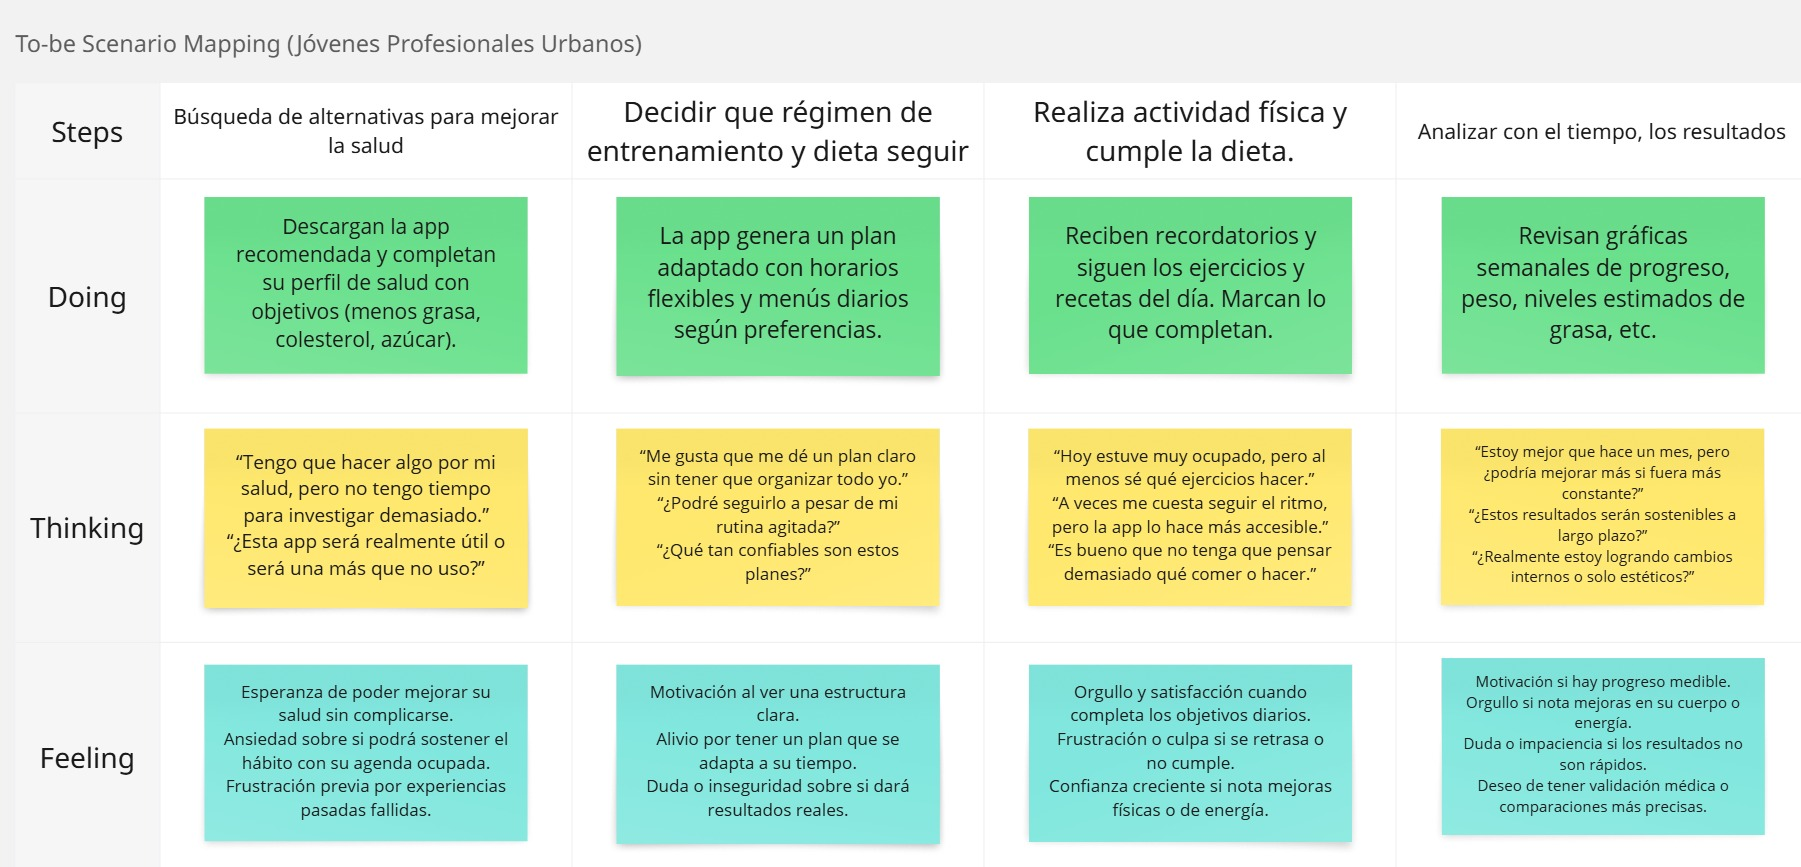
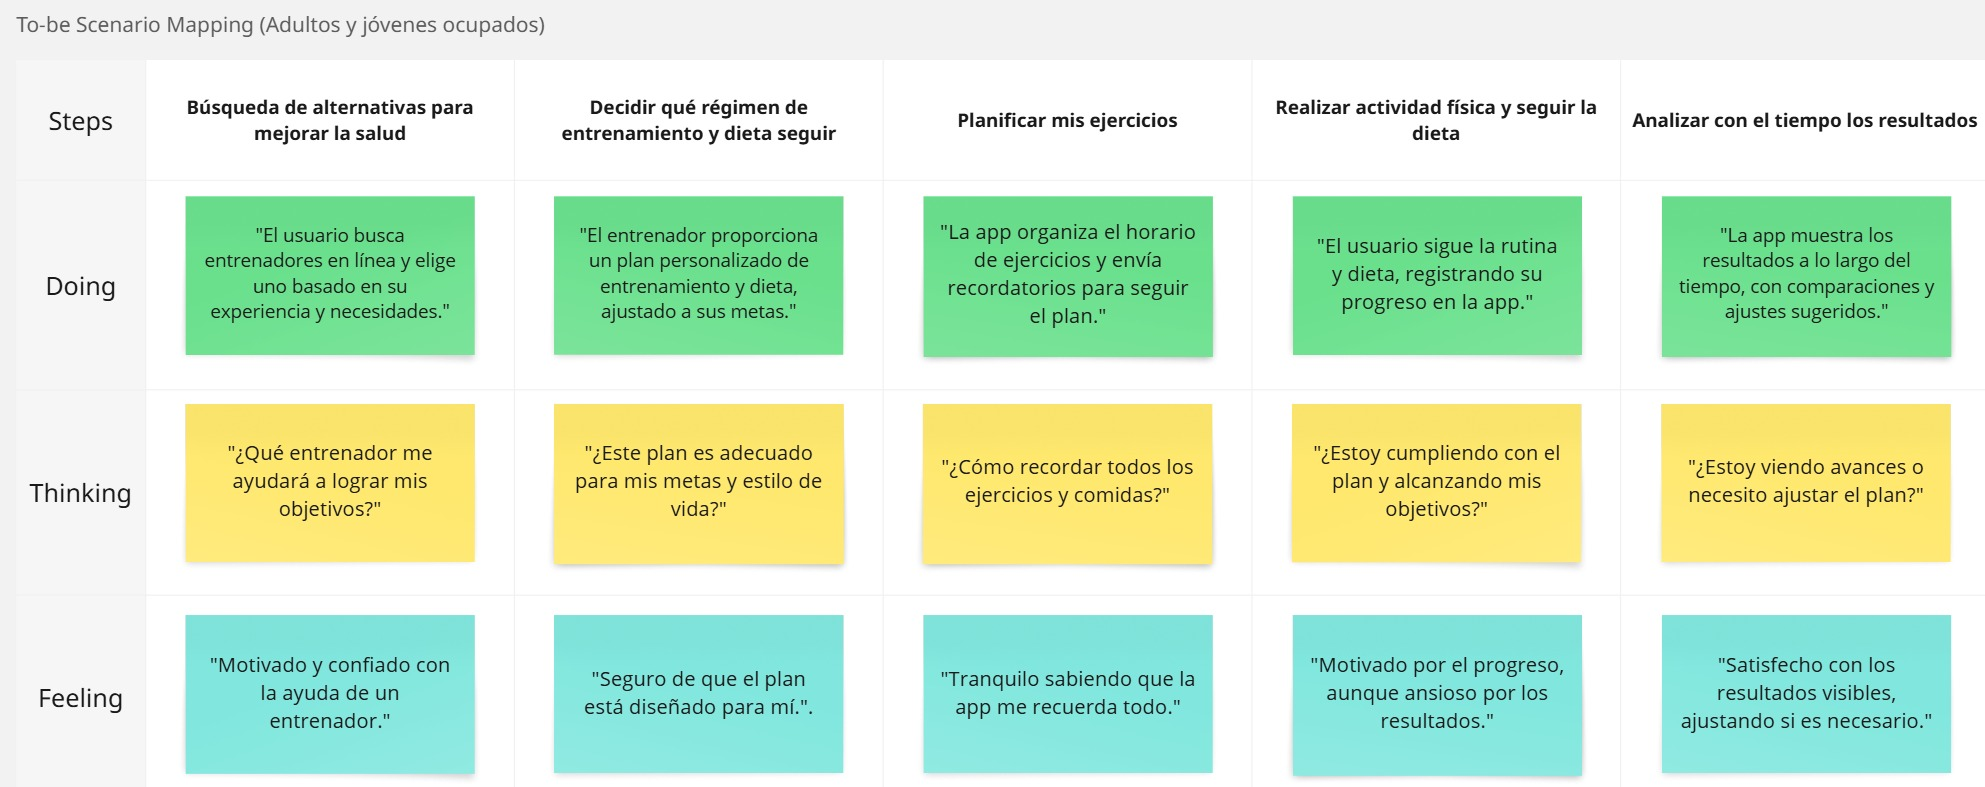
feat: Modificar To-Be

diff --git a/README.md b/README.md
@@ -862,15 +862,15 @@ Esta sección presenta el As-Is Scenario Mapping de entrenadores personales, coa
 
 ### 3.1. To-Be Scenario Mapping
 
-**Jóvenes Profesionales Urbanos**
-En esta sección se presenta el To-Be Scenario Mapping para el segmento de Jóvenes Profesionales Urbanos. El equipo llevó a cabo una fase de preparación y lluvia de ideas para definir las etapas clave de una experiencia mejorada al buscar rutinas de ejercicio y planes alimenticios enfocados en el bienestar integral. Este mapeo compara el escenario actual (As-Is) con el escenario ideal (To-Be), destacando los cambios que pueden mejorar las acciones, pensamientos y emociones del usuario, con el objetivo de brindar una experiencia más útil, motivadora y personalizada.
+**Adultos y Jóvenes Ocupados**
+En esta sección se presenta el To-Be Scenario Mapping para el segmento de Adultos y Jóvenes Ocupados. El equipo llevó a cabo una fase de preparación y lluvia de ideas para definir las etapas clave de una experiencia mejorada en la que los usuarios puedan integrar de manera eficiente rutinas de ejercicio y planes alimenticios en sus agendas ajustadas. Este mapeo compara el escenario actual (As-Is) con el escenario ideal (To-Be), destacando los cambios que pueden mejorar las acciones, pensamientos y emociones del usuario, con el objetivo de ofrecerles soluciones prácticas, rápidas y efectivas que se ajusten a sus horarios y necesidades diarias.
 
   <p align="center">
   <img src="./assets/to-be1.jpg" alt="tobe1"/>
 
 
-**Jóvenes Universitarios Saludables en Formación**
-Esta sección presenta el To-Be Scenario Mapping para el perfil de Jóvenes Universitarios Saludables en Formación. A través de un proceso de análisis y lluvia de ideas, se definieron las etapas de una experiencia mejorada al buscar rutinas de entrenamiento y planes alimenticios orientados a mejorar su rendimiento deportivo o apariencia física. La comparación con el escenario actual (As-Is) permite identificar oportunidades para optimizar sus acciones, pensamientos y emociones, brindando una experiencia más efectiva y motivadora.
+**Entrenadores y Profesionales del Fitness**
+En esta sección se presenta el To-Be Scenario Mapping para el segmento de Entrenadores y Profesionales del Fitness. El equipo llevó a cabo una fase de preparación y lluvia de ideas para identificar las etapas clave de una experiencia optimizada para gestionar rutinas personalizadas y realizar un seguimiento efectivo de los clientes. Este mapeo compara el escenario actual (As-Is) con el escenario ideal (To-Be), destacando las mejoras que se pueden hacer en las acciones, pensamientos y emociones de los entrenadores, con el fin de proporcionarles una plataforma más eficiente para crear planes, realizar seguimientos y brindar una retroalimentación en tiempo real.
 
   <p align="center">
   <img src="./assets/to-be2.jpg" alt="tobe2"/>
